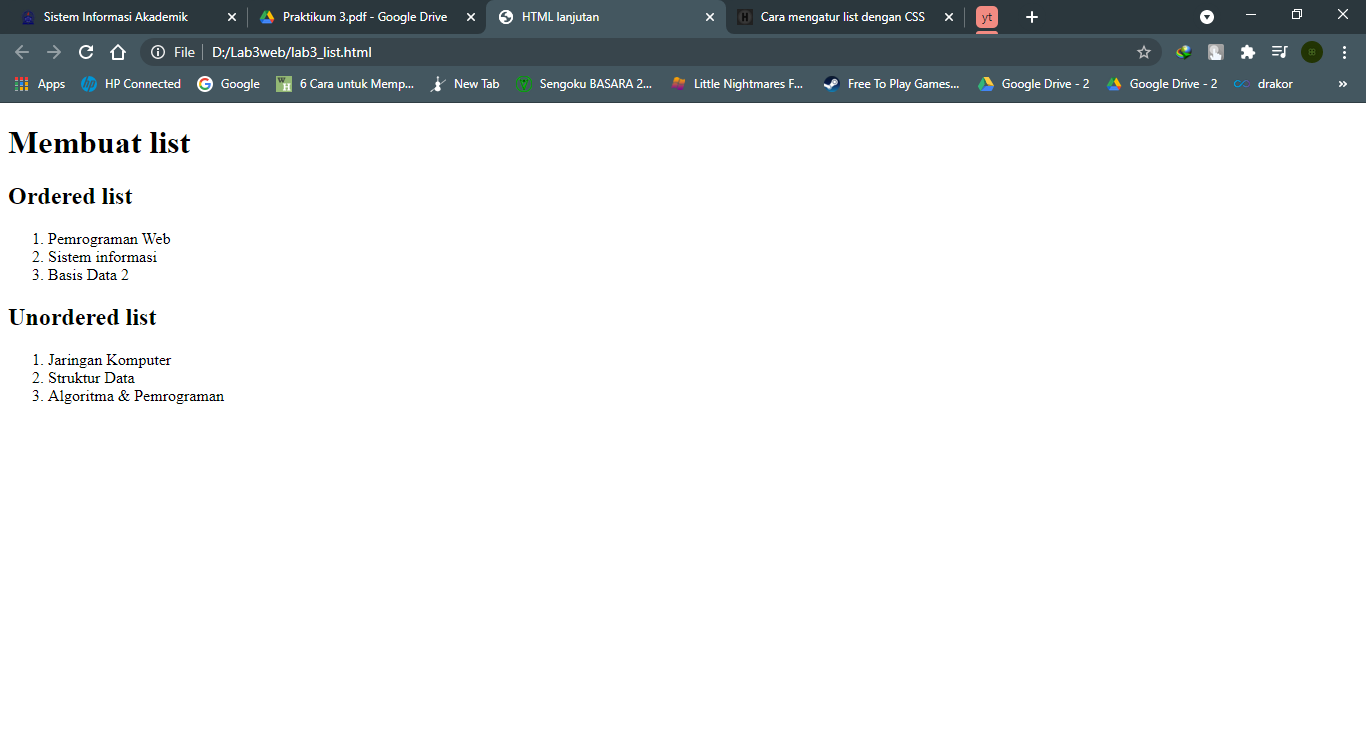
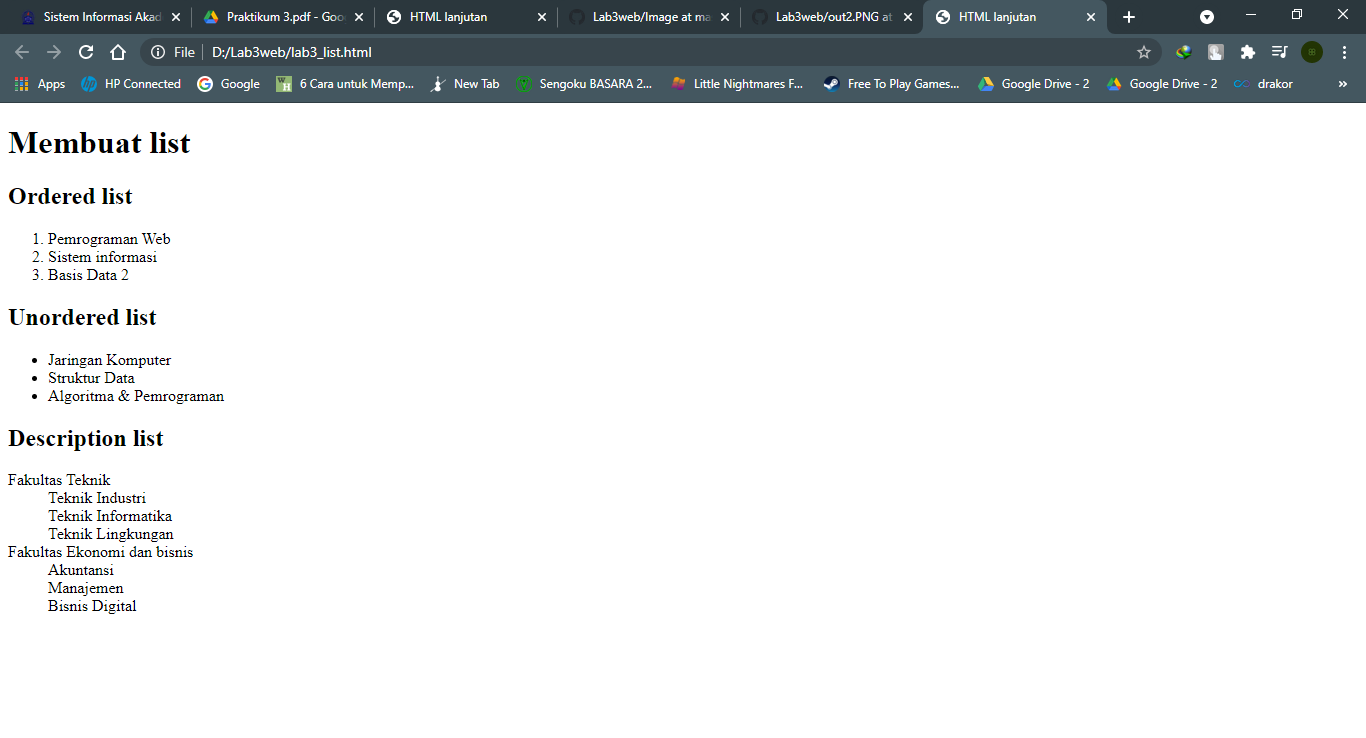
file pertama saya

Changed region(s): [[0.123, 0.0, 0.8302, 0.0623], [0.0, 0.5921, 0.123, 0.8415]]

diff --git a/lab3_list.html b/lab3_list.html
@@ -19,11 +19,11 @@
 	</section>
 	<section id="unorder-list">
 		<h2> Unordered list</h2>
-		<ol>
+		<ul>
 			<li>Jaringan Komputer</li>
 			<li>Struktur Data</li>
 			<li>Algoritma & Pemrograman</li>
-		</ol>
+		</ul>
 	</section>
 	<section id="unorder-list">
 		<h2>Description list</h2>
